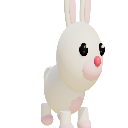
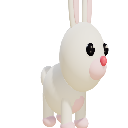
MiniMig 2: kæledyr med faste ben og hale, spids kat, bag figuren på skateboard, væk i vandet, ingen farver på dyr

diff --git a/bygogspil/index.html b/bygogspil/index.html
@@ -553,8 +553,9 @@ const PALETTES = { skin: ['#F6D0AE', '#EDB98A', '#D9965F', '#B5713F', '#8D5530',
 PALETTES.brows = PALETTES.hair;
 // (the nose, the mouth and Pynt have no colour of their own, as in the app: no sliders under them - nor the movements)
 var briefsOn = false; // (the briefs are always white: no colours under them)
+var petPick = false; // (a pet tapped last under Ting: its colours can't be changed, so no colours show until a thing is tapped)
 function showSwatches() { const move = /^(move|game)-/.test(partNow); if (!move) slidersFrom(picked[partNow] || START[partNow]);
-  const noColour = move || ['nose', 'mouth', 'pynt', 'name', 'ears', 'bg'].includes(partNow) || partNow === 'pants' && briefsOn;
+  const noColour = move || ['nose', 'mouth', 'pynt', 'name', 'ears', 'bg'].includes(partNow) || partNow === 'pants' && briefsOn || partNow === 'item' && petPick;
   document.getElementById('sliders').style.display = noColour ? 'none' : '';
   // (the fixed colours of the app over the sliders: skin, hair - the brows too - eyes, and the clothes' colours for the rest)
   const sw = document.getElementById('swatches'), list = noColour ? [] : PALETTES[partNow] || PALETTES.cloth; sw.hidden = !list.length; sw.innerHTML = '';
@@ -1741,7 +1742,7 @@ async function loadHair(name, list = hairTexs, colourPart = 'hair', extra = {}) 
   // (cap: no lighter than that over the middle - the glasses' frames had white smears inside, by the glass)
   if (opts.cap) list.at(-1).cap = opts.cap;
   body.parent.add(hair); hair.bind(body.skeleton, body.bindMatrix); scalpCap(hair, g, W, earLines, apart, eyeY); if (picked[colourPart]) recolourHair(picked[colourPart], list); return hair; }
-var styleLists = () => ({ hair: [HAIRS, hairNow, setHair], eyes: [EYES, eyesNow, setEyes], brows: [BROWS, browsNow, setBrows], mouth: [MOUTHS, mouthNow, setMouth], pynt: [PYNT, pyntNow.map(k => 'pynt-' + k), setPynt], nose: [NOSES, noseNow, setNose], item: [ITEMS, itemNow, setItem, [PETS, petNow, setPet, 'dyr']], bg: [BGS, bgNow, setBg], ears: [EARS, earsNow, setEars, [EARRINGS, earringsNow, setEarrings, 'oerering']],
+var styleLists = () => ({ hair: [HAIRS, hairNow, setHair], eyes: [EYES, eyesNow, setEyes], brows: [BROWS, browsNow, setBrows], mouth: [MOUTHS, mouthNow, setMouth], pynt: [PYNT, pyntNow.map(k => 'pynt-' + k), setPynt], nose: [NOSES, noseNow, setNose], item: [ITEMS, itemNow, n => { petPick = false; setItem(n); showSwatches(); }, [PETS, petNow, n => { petPick = true; setPet(n); showSwatches(); }, 'dyr']], bg: [BGS, bgNow, setBg], ears: [EARS, earsNow, setEars, [EARRINGS, earringsNow, setEarrings, 'oerering']],
   ...Object.fromEntries(Object.entries(GARMENTS).map(([part, G]) => [part, [G.items, G.now, n => setGarment(part, n)]])),
   ...Object.fromEntries(Object.entries(MOVES).map(([g, list]) => ['move-' + g, [list, moveNow[g], playMove]])), 'game-hop': gameList() });
 async function setHair(name) {
@@ -3013,22 +3014,30 @@ let petNow = '', pet = null; const pets = {};
 function makePet(kind) { const g = new THREE.Group(), C = { 'dyr-kat': ['#F2994A', '#FFE9CF', '#E8627A'], 'dyr-hund': ['#B57F4A', '#F3DDBB', '#2A1C17'], 'dyr-kanin': ['#F6F3EC', '#FFD3E2', '#E8627A'] }[kind], fur = ilM(C[0], .8), pale = ilM(C[1], .8), nose = ilM(C[2], .4), dark = ilM('#1C1A22', .25), S = (r, m, x, y, z, p = g) => ilMesh(new THREE.SphereGeometry(r, 18, 14), m, x, y, z, p);
   S(.2, fur, 0, .24, 0).scale.set(.9, .85, 1.2); S(.15, pale, 0, .2, .08).scale.set(.75, .7, 1.05);
   const head = new THREE.Group(); head.position.set(0, .45, .24); head.scale.setScalar(1.22); g.add(head);
-  S(.17, fur, 0, 0, 0, head); S(.075, pale, 0, -.045, .125, head).scale.set(1.15, .8, .9); S(.024, nose, 0, -.015, .19, head);
+  S(.17, fur, 0, 0, 0, head);
+  // (the cat's face comes to a point - a cone for the muzzle, a small nose on its tip, whiskers - the user, 04-11-2026: it
+  // looked like the dog; the dog and the rabbit keep a round muzzle)
+  if (kind === 'dyr-kat') { head.children[0].scale.set(1.08, .92, .95); const m = ilMesh(new THREE.ConeGeometry(.115, .17, 16), fur, 0, -.045, .15, head); m.rotation.x = Math.PI / 2; m.scale.set(1, 1, .72); S(.02, nose, 0, -.04, .237, head);
+    for (const s of [-1, 1]) for (const a of [-.14, .14]) { const w = ilMesh(new THREE.CylinderGeometry(.003, .003, .16, 5), ilM('#FFFFFF', .5), s * .1, -.05 + a * .12, .17, head, false); w.rotation.z = Math.PI / 2 + s * a; } }
+  else { S(.075, pale, 0, -.045, .125, head).scale.set(1.15, .8, .9); S(.024, nose, 0, -.015, .19, head); }
   for (const s of [-1, 1]) { S(.03, dark, s * .075, .035, .14, head); S(.009, ilM('#FFFFFF', .2), s * .07, .05, .167, head);
-    if (kind === 'dyr-kat') { const e = ilMesh(new THREE.ConeGeometry(.065, .13, 12), fur, s * .1, .15, 0, head); e.rotation.z = -s * .25; const i = ilMesh(new THREE.ConeGeometry(.035, .08, 10), pale, s * .1, .14, .025, head); i.rotation.z = -s * .25; }
+    if (kind === 'dyr-kat') { const e = ilMesh(new THREE.ConeGeometry(.08, .17, 4), fur, s * .105, .17, 0, head); e.rotation.z = -s * .28; e.scale.z = .55; const i = ilMesh(new THREE.ConeGeometry(.045, .1, 4), pale, s * .105, .155, .03, head); i.rotation.z = -s * .28; i.scale.z = .3; }
     if (kind === 'dyr-hund') { const e = S(.075, ilM('#8A5A2E', .8), s * .165, -.01, -.01, head); e.scale.set(.5, 1.35, .85); e.rotation.z = s * .18; }
     if (kind === 'dyr-kanin') { const e = S(.05, fur, s * .07, .24, -.02, head); e.scale.set(.95, 3, .55); e.rotation.z = -s * .1; const i = S(.03, pale, s * .07, .24, .005, head); i.scale.set(.9, 3, .4); i.rotation.z = -s * .1; } }
-  const legs = []; for (const [x, z] of [[-.1, .17], [.1, .17], [-.1, -.17], [.1, -.17]]) { const l = new THREE.Group(); l.position.set(x, .13, z); g.add(l); ilMesh(new THREE.CylinderGeometry(.05, .055, .12, 10), fur, 0, -.06, 0, l); S(.06, pale, 0, -.1, .015, l).scale.set(1, .7, 1.25); legs.push(l); }
-  const tail = new THREE.Group(); tail.position.set(0, .3, -.23); g.add(tail);
-  if (kind === 'dyr-kanin') S(.075, ilM('#FFFFFF', .9), 0, 0, -.02, tail);
-  else { const n = kind === 'dyr-kat' ? 5 : 3, len = kind === 'dyr-kat' ? .085 : .07; for (let k = 0; k < n; k++) { const p = ilMesh(new THREE.SphereGeometry(.036 - k * .003, 10, 8), fur, 0, (k + .5) * len, -k * k * .006 - k * .01, tail); p.scale.y = 1.5; } }
+  // (the legs start well up inside the body and the tail is one piece growing out of it - the user, 04-11-2026: they
+  // looked stuck on, the tail loose beads)
+  const legs = []; for (const [x, z] of [[-.09, .13], [.09, .13], [-.09, -.13], [.09, -.13]]) { const l = new THREE.Group(); l.position.set(x, .21, z); g.add(l); ilMesh(new THREE.CylinderGeometry(.056, .052, .19, 12), fur, 0, -.095, 0, l); S(.06, pale, 0, -.18, .015, l).scale.set(1, .7, 1.25); legs.push(l); }
+  const tail = new THREE.Group(); tail.position.set(0, .3, -.17); g.add(tail);
+  if (kind === 'dyr-kanin') S(.08, ilM('#FFFFFF', .9), 0, 0, -.07, tail);
+  else { const pts = (kind === 'dyr-kat' ? [[0, -.03, .05], [0, .02, -.04], [0, .14, -.11], [0, .27, -.13], [0, .36, -.08]] : [[0, -.03, .05], [0, .02, -.05], [0, .1, -.12], [0, .17, -.15]]).map(p => new THREE.Vector3(...p));
+    ilMesh(new THREE.TubeGeometry(new THREE.CatmullRomCurve3(pts), 16, kind === 'dyr-kat' ? .03 : .036, 10), fur, 0, 0, 0, tail); S(kind === 'dyr-kat' ? .03 : .036, fur, pts.at(-1).x, pts.at(-1).y, pts.at(-1).z, tail); }
   g.visible = false; scene.add(g); return { group: g, head, legs, tail, t: 0, walk: 0, face: .5, hop: 0, snap: true }; }
 function setPet(name) { if (!PETS.some(p => p[0] === name)) name = ''; petNow = name; if (pet) pet.group.visible = false; pet = name && glb ? pets[name] ??= makePet(name) : null; if (pet) pet.snap = true; renderStyles(); }
 const petAt = new THREE.Vector3();
 // (each moment: to its place beside the figure - a place of its own in each game - legs going when it moves)
 function petTick(dt) { if (!pet) return; const hb = bone('Hips'), g = pet.group, mode = game.on ? game.mode : ''; if (!hb) return; hb.getWorldPosition(petAt);
-  const behind = mode === 'sea' ? -Math.sign(Math.sin(game.rotY ?? 0)) || -1 : 1, [ox, oz, face] = { '': [.62, .5, .5], side: [-.9, .35, Math.PI / 2], back: [.75, .35, Math.PI], front: [.75, -.15, 0], skate: [petAt.x >= 0 ? -.8 : .8, .6, Math.PI], sea: [behind * 1, .2, null], island: [-.75, .5, null], hide: [.85, .5, 0], pk: [-.8, .3, Math.PI] }[mode] ?? [.62, .5, .5];
-  const running = ['side', 'back', 'front', 'skate'].includes(mode), floorY = mode === 'sea' ? petAt.y - .45 : 0, tx = petAt.x + ox, tz = petAt.z + oz; g.visible = holder.visible && !(mode === 'hide' && !il.rig.visible);
+  const behind = mode === 'sea' ? -Math.sign(Math.sin(game.rotY ?? 0)) || -1 : 1, [ox, oz, face] = { '': [.62, .5, .5], side: [-.9, .35, Math.PI / 2], back: [.75, .35, Math.PI], front: [.75, -.15, 0], skate: [0, 1.25, Math.PI], sea: [behind * 1, .2, null], island: [-.75, .5, null], hide: [.85, .5, 0], pk: [-.8, .3, Math.PI] }[mode] ?? [.62, .5, .5];
+  const running = ['side', 'back', 'front', 'skate'].includes(mode), floorY = mode === 'sea' ? petAt.y - .45 : 0, tx = petAt.x + ox, tz = petAt.z + oz; g.visible = holder.visible && mode !== 'sea' && !(mode === 'hide' && !il.rig.visible); // (not in the sea - the user, 04-11-2026)
   if (pet.snap) { g.position.set(tx, floorY, tz); pet.snap = false; } const x0 = g.position.x, z0 = g.position.z, k = 1 - Math.exp(-dt * (running ? 9 : 4)); g.position.x += (tx - x0) * k; g.position.z += (tz - z0) * k; pet.y = (pet.y ?? floorY) + (floorY - (pet.y ?? floorY)) * k;
   const vx = g.position.x - x0, vz = g.position.z - z0, speed = dt ? Math.hypot(vx, vz) / dt : 0, moving = running || speed > .35, t = performance.now() / 1000;
   const faceTo = !running && speed > .35 ? Math.atan2(vx, vz) : face ?? pet.face; let d = faceTo - pet.face; d = Math.atan2(Math.sin(d), Math.cos(d)); pet.face += d * Math.min(1, dt * 7); g.rotation.y = pet.face;

diff --git a/precache-manifest.js b/precache-manifest.js
@@ -1,2 +1,2 @@
-self.MINIMIG_VERSION = 'C272508A2D99FD31';
+self.MINIMIG_VERSION = 'F07253F4DB70CEB1';
 self.MINIMIG_FILES = ["billeder/figur.png","billeder/ikon-180.png","billeder/ikon-192.png","billeder/ikon-512.png","billeder/spil-dans.jpg","billeder/spil-gemmeleg.jpg","billeder/spil-hav.jpg","billeder/spil-hop.jpg","billeder/spil-skate.jpg","billeder/spil-straffe.jpg","bygogspil/baggrund/dansesal.jpg","bygogspil/baggrund/fodboldbane.jpg","bygogspil/baggrund/gymnastiksal.jpg","bygogspil/baggrund/havbund.jpg","bygogspil/baggrund/have.jpg","bygogspil/baggrund/ridderborg.jpg","bygogspil/baggrund/rummet.jpg","bygogspil/baggrund/skov.jpg","bygogspil/baggrund/slikland.jpg","bygogspil/baggrund/slot.jpg","bygogspil/baggrund/strand.jpg","bygogspil/baggrund/vinter.jpg","bygogspil/figur.fbx","bygogspil/figur-farve.jpg","bygogspil/figur-staa.json","bygogspil/haar-kort.jpg","bygogspil/haar-kort.json","bygogspil/ikoner/baggrund.png","bygogspil/ikoner/briller.png","bygogspil/ikoner/bryn.png","bygogspil/ikoner/bukser.png","bygogspil/ikoner/hat.png","bygogspil/ikoner/hud.png","bygogspil/ikoner/haar.png","bygogspil/ikoner/kinder.png","bygogspil/ikoner/kjoler.png","bygogspil/ikoner/mund.png","bygogspil/ikoner/naese.png","bygogspil/ikoner/navn.png","bygogspil/ikoner/ny-dreng.jpg","bygogspil/ikoner/ny-pige.jpg","bygogspil/ikoner/oejne.png","bygogspil/ikoner/oerer.png","bygogspil/ikoner/sko.png","bygogspil/ikoner/spil-gemmeleg.png","bygogspil/ikoner/spil-hav.png","bygogspil/ikoner/spil-hop.png","bygogspil/ikoner/spil-hop-bag.png","bygogspil/ikoner/spil-hop-for.png","bygogspil/ikoner/spil-oe.png","bygogspil/ikoner/spil-skate.png","bygogspil/ikoner/spil-straffe.png","bygogspil/ikoner/stilling-dans.png","bygogspil/ikoner/stilling-drej.png","bygogspil/ikoner/stilling-hop.png","bygogspil/ikoner/stilling-jubel.png","bygogspil/ikoner/stilling-kolboette.png","bygogspil/ikoner/stilling-loeb.png","bygogspil/ikoner/stilling-mindans.png","bygogspil/ikoner/stilling-spark.png","bygogspil/ikoner/stilling-staa.png","bygogspil/ikoner/stilling-vink.png","bygogspil/ikoner/stroemper.png","bygogspil/ikoner/ting.png","bygogspil/ikoner/troeje.png","bygogspil/ikoner/valg-back.png","bygogspil/ikoner/valg-bg-dansesal.png","bygogspil/ikoner/valg-bg-fodboldbane.png","bygogspil/ikoner/valg-bg-gymnastiksal.png","bygogspil/ikoner/valg-bg-havbund.png","bygogspil/ikoner/valg-bg-have.png","bygogspil/ikoner/valg-bg-ridderborg.png","bygogspil/ikoner/valg-bg-rummet.png","bygogspil/ikoner/valg-bg-skov.png","bygogspil/ikoner/valg-bg-slikland.png","bygogspil/ikoner/valg-bg-slot.png","bygogspil/ikoner/valg-bg-sol.png","bygogspil/ikoner/valg-bg-strand.png","bygogspil/ikoner/valg-bg-vinter.png","bygogspil/ikoner/valg-briller-hjerte.png","bygogspil/ikoner/valg-briller-runde.png","bygogspil/ikoner/valg-briller-sol.png","bygogspil/ikoner/valg-briller-stjerne.png","bygogspil/ikoner/valg-bryn-hoeje.png","bygogspil/ikoner/valg-bryn-ingen.png","bygogspil/ikoner/valg-bryn-naturlige.png","bygogspil/ikoner/valg-bryn-sure.png","bygogspil/ikoner/valg-bryn-triste.png","bygogspil/ikoner/valg-bryn-tykke.png","bygogspil/ikoner/valg-bryn-tynde.png","bygogspil/ikoner/valg-bukser-cowboy.png","bygogspil/ikoner/valg-bukser-fodbold.png","bygogspil/ikoner/valg-bukser-lange.png","bygogspil/ikoner/valg-bukser-shorts.png","bygogspil/ikoner/valg-bukser-trusser.png","bygogspil/ikoner/valg-dans.png","bygogspil/ikoner/valg-dans-arme.png","bygogspil/ikoner/valg-dans-break.png","bygogspil/ikoner/valg-dans-fjollet.png","bygogspil/ikoner/valg-dans-flair.png","bygogspil/ikoner/valg-dans-flair2.png","bygogspil/ikoner/valg-dans-hiphop.png","bygogspil/ikoner/valg-dyr-hund.png","bygogspil/ikoner/valg-dyr-kanin.png","bygogspil/ikoner/valg-dyr-kat.png","bygogspil/ikoner/valg-fald.png","bygogspil/ikoner/valg-front.png","bygogspil/ikoner/valg-hat-kanin.png","bygogspil/ikoner/valg-hat-kasket.png","bygogspil/ikoner/valg-hat-krone.png","bygogspil/ikoner/valg-hat-sloejfe.png","bygogspil/ikoner/valg-hop.png","bygogspil/ikoner/valg-hop-hoejt.png","bygogspil/ikoner/valg-hop-lille.png","bygogspil/ikoner/valg-hop-over.png","bygogspil/ikoner/valg-haar-fletning.png","bygogspil/ikoner/valg-haar-fletninger.png","bygogspil/ikoner/valg-haar-kort.png","bygogspil/ikoner/valg-haar-kroeller.png","bygogspil/ikoner/valg-haar-strit.png","bygogspil/ikoner/valg-ingen-dress.png","bygogspil/ikoner/valg-ingen-dyr.png","bygogspil/ikoner/valg-ingen-glasses.png","bygogspil/ikoner/valg-ingen-hat.png","bygogspil/ikoner/valg-ingen-item.png","bygogspil/ikoner/valg-ingen-oerering.png","bygogspil/ikoner/valg-ingen-pants.png","bygogspil/ikoner/valg-ingen-shirt.png","bygogspil/ikoner/valg-ingen-shoe.png","bygogspil/ikoner/valg-ingen-socks.png","bygogspil/ikoner/valg-jubel.png","bygogspil/ikoner/valg-jubel-klap.png","bygogspil/ikoner/valg-jubel-yes.png","bygogspil/ikoner/valg-kjole-havfrue.png","bygogspil/ikoner/valg-kjole-prinsesse.png","bygogspil/ikoner/valg-kjole-sommer.png","bygogspil/ikoner/valg-kolboette.png","bygogspil/ikoner/valg-loeb.png","bygogspil/ikoner/valg-loeb-a.png","bygogspil/ikoner/valg-loeb-b.png","bygogspil/ikoner/valg-loebehop.png","bygogspil/ikoner/valg-mund-grin.png","bygogspil/ikoner/valg-mund-kys.png","bygogspil/ikoner/valg-mund-neutral.png","bygogspil/ikoner/valg-mund-o.png","bygogspil/ikoner/valg-mund-smil.png","bygogspil/ikoner/valg-mund-trist.png","bygogspil/ikoner/valg-mund-tunge.png","bygogspil/ikoner/valg-naese-bred.png","bygogspil/ikoner/valg-naese-dyr.png","bygogspil/ikoner/valg-naese-klovn.png","bygogspil/ikoner/valg-naese-lang.png","bygogspil/ikoner/valg-naese-lille.png","bygogspil/ikoner/valg-naese-naturlig.png","bygogspil/ikoner/valg-niveau-let.png","bygogspil/ikoner/valg-niveau-meget-let.png","bygogspil/ikoner/valg-niveau-meget-svaer.png","bygogspil/ikoner/valg-niveau-mellem.png","bygogspil/ikoner/valg-niveau-svaer.png","bygogspil/ikoner/valg-oejne-blink.png","bygogspil/ikoner/valg-oejne-glad.png","bygogspil/ikoner/valg-oejne-hjerte.png","bygogspil/ikoner/valg-oejne-naturlige.png","bygogspil/ikoner/valg-oejne-stjerne.png","bygogspil/ikoner/valg-oejne-store.png","bygogspil/ikoner/valg-oejne-vipper.png","bygogspil/ikoner/valg-oerer-alfe.png","bygogspil/ikoner/valg-oerering-hjerter.png","bygogspil/ikoner/valg-oerering-perler.png","bygogspil/ikoner/valg-oerering-ringe.png","bygogspil/ikoner/valg-oerering-stjerner.png","bygogspil/ikoner/valg-oerer-naturlig.png","bygogspil/ikoner/valg-oerer-smaa.png","bygogspil/ikoner/valg-oerer-store.png","bygogspil/ikoner/valg-oerer-udstaaende.png","bygogspil/ikoner/valg-pynt-fregner.png","bygogspil/ikoner/valg-pynt-glimmer.png","bygogspil/ikoner/valg-pynt-hjerter.png","bygogspil/ikoner/valg-pynt-ingen.png","bygogspil/ikoner/valg-pynt-plaster.png","bygogspil/ikoner/valg-pynt-plet.png","bygogspil/ikoner/valg-pynt-regnbue.png","bygogspil/ikoner/valg-pynt-roede.png","bygogspil/ikoner/valg-pynt-stjerne.png","bygogspil/ikoner/valg-side.png","bygogspil/ikoner/valg-sko-ballet.png","bygogspil/ikoner/valg-sko-fodbold.png","bygogspil/ikoner/valg-sko-gummi.png","bygogspil/ikoner/valg-sko-hoej.png","bygogspil/ikoner/valg-sko-sneakers.png","bygogspil/ikoner/valg-snubl.png","bygogspil/ikoner/valg-spark.png","bygogspil/ikoner/valg-spark-hoejre.png","bygogspil/ikoner/valg-stroemper-ankel.png","bygogspil/ikoner/valg-stroemper-fodbold.png","bygogspil/ikoner/valg-stroemper-hoeje.png","bygogspil/ikoner/valg-staa.png","bygogspil/ikoner/valg-ting-ballon.png","bygogspil/ikoner/valg-ting-bamse.png","bygogspil/ikoner/valg-ting-blomst.png","bygogspil/ikoner/valg-ting-bold.png","bygogspil/ikoner/valg-ting-fodbold.png","bygogspil/ikoner/valg-ting-hulahop.png","bygogspil/ikoner/valg-ting-is.png","bygogspil/ikoner/valg-ting-paraply.png","bygogspil/ikoner/valg-ting-tryllestav.png","bygogspil/ikoner/valg-toej-fodbold.png","bygogspil/ikoner/valg-toej-haette.png","bygogspil/ikoner/valg-toej-tshirt.png","bygogspil/ikoner/valg-vink.png","bygogspil/index.html","bygogspil/three/build/three.module.min.js","bygogspil/three/examples/jsm/controls/OrbitControls.js","bygogspil/three/examples/jsm/curves/NURBSCurve.js","bygogspil/three/examples/jsm/curves/NURBSUtils.js","bygogspil/three/examples/jsm/libs/fflate.module.js","bygogspil/three/examples/jsm/loaders/FBXLoader.js","bygogspil/three/LICENSE","index.html","manifest.webmanifest","privatliv/index.html","pwa.css","pwa.js","style.css","support/index.html","til-foraeldre/index.html"];
